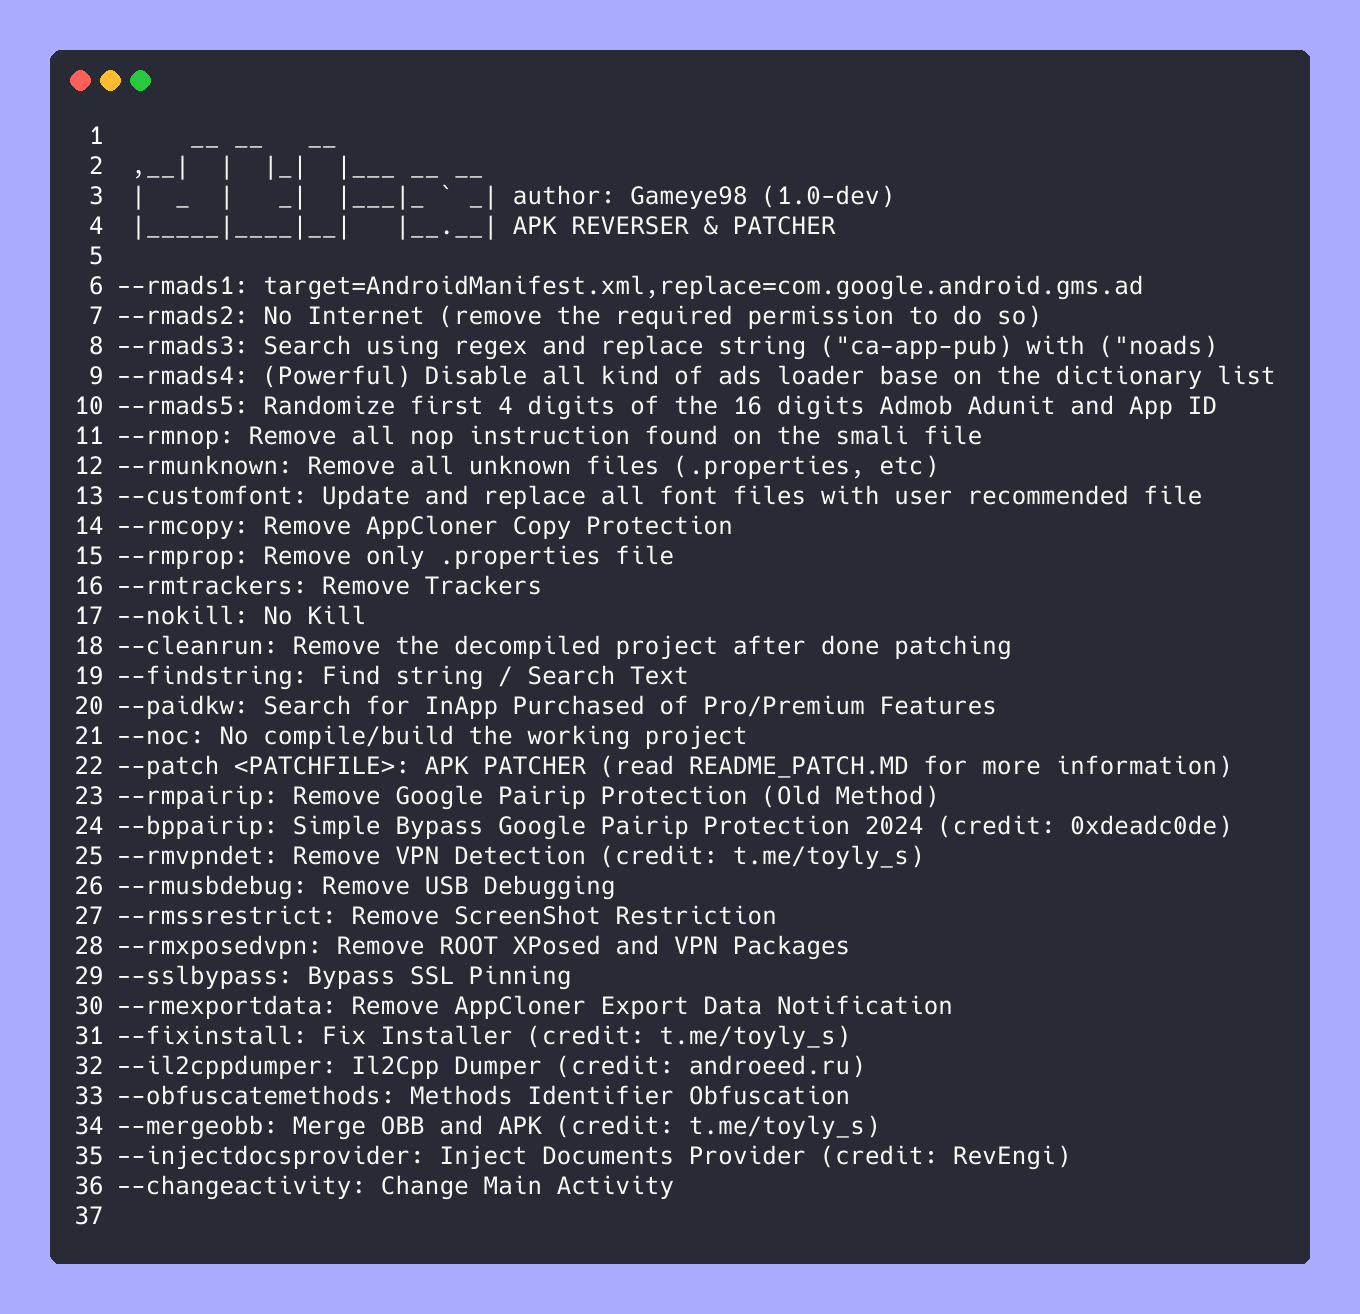
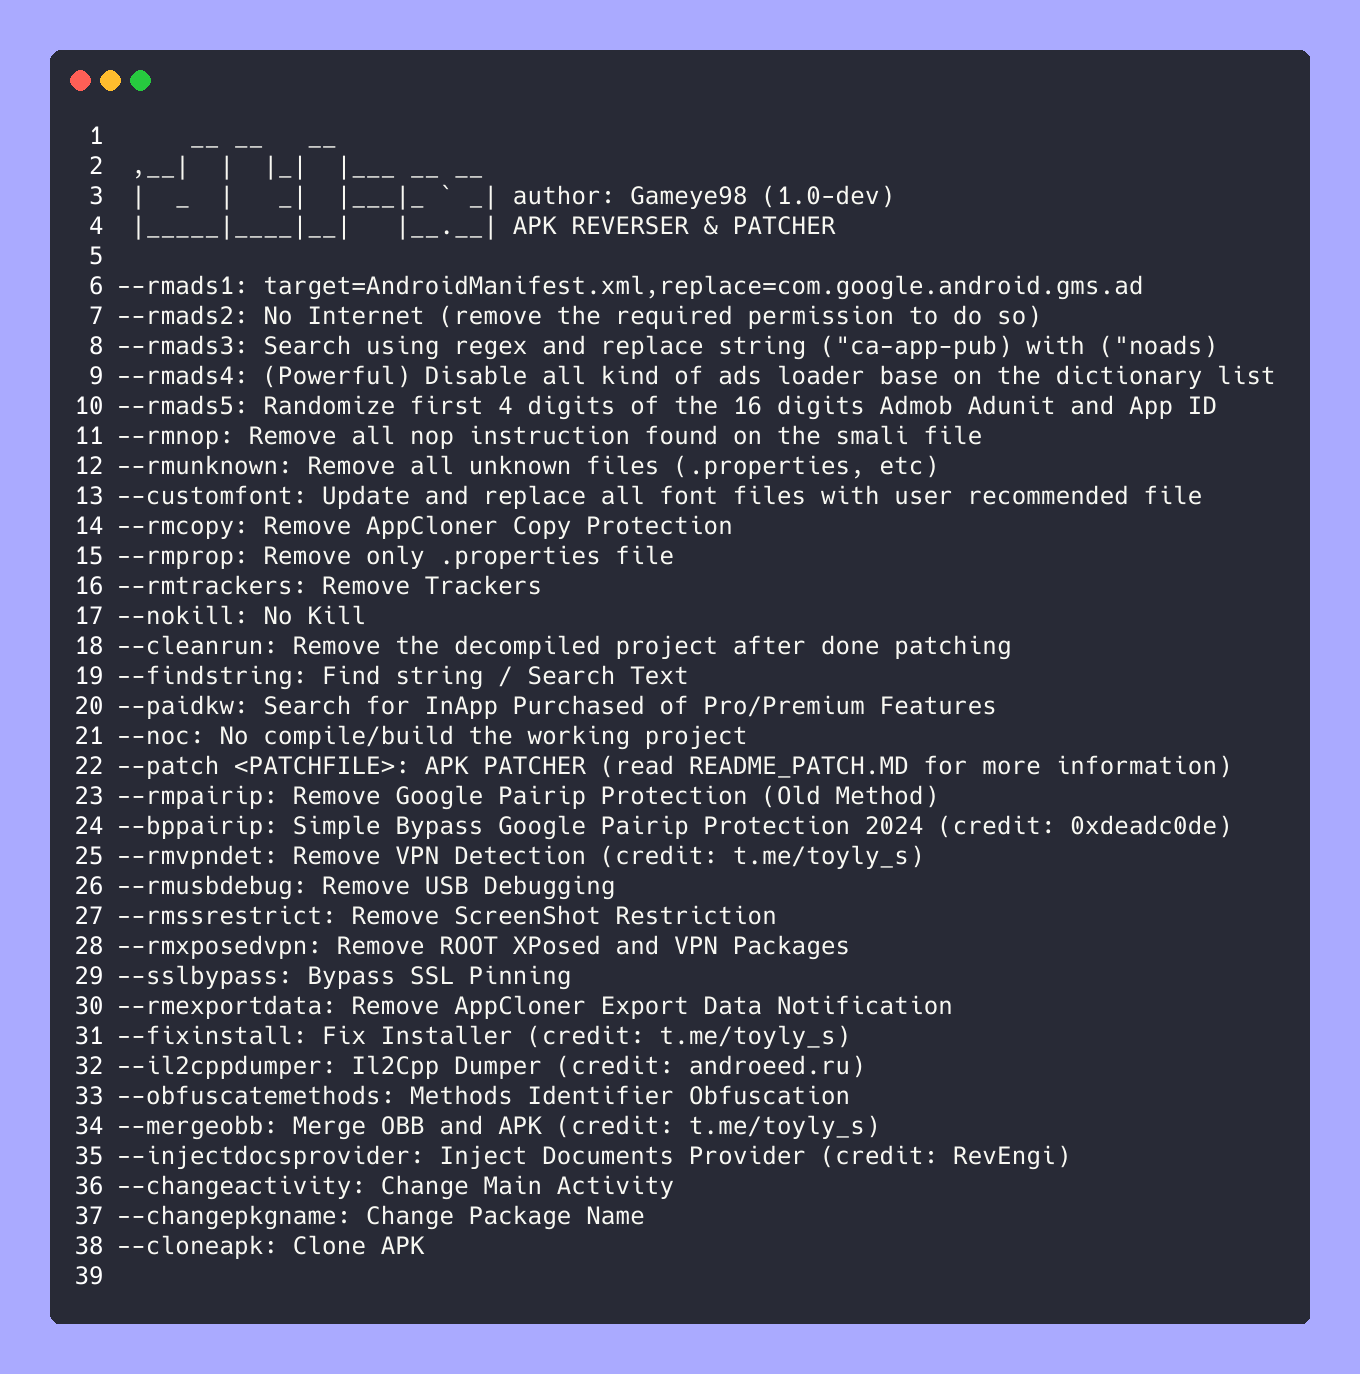
add --changepkgname & --cloneapk

diff --git a/dtlx.py b/dtlx.py
@@ -15,6 +15,8 @@ cnorm = lambda: os.system("tput cnorm")
 cols = lambda: int(os.popen("tput cols").read().strip())
 loading = ["|","/","-","\\"]
 dtlxhistory = ".dtlx_history"
+ascii_letters = "abcdefghijklmnopqrstuvwxyzABCDEFGHIJKLMNOPQRSTUVWXYZ"
+ascii_letters = [x for x in ascii_letters]
 
 def rnd_wordlist():
 	with open("randomlist.txt","r") as f:
@@ -26,6 +28,12 @@ def randomid():
 	randomstr = ""
 	while len(randomstr) < 6:
 		randomstr += str(random.choice(list(range(0,10))))
+	return randomstr
+
+def randomletters():
+	randomstr = ""
+	while len(randomstr) < 6:
+		randomstr += str(random.choice(ascii_letters))
 	return randomstr
 
 def delete_recursively(path):
@@ -172,6 +180,8 @@ class patcher:
 			elif args_iter=="mergeobb":self.mergeObb()
 			elif args_iter=="injectdocsprovider":self.injectDocumentsProvider()
 			elif args_iter=="changeactivity":self.changeActivity()
+			elif args_iter=="changepackagename":self.changePkgName()
+			elif args_iter=="cloneapk":self.cloneApk()
 		# Compile Project
 		if self.iscompile:
 			if os.path.isdir(f"{self.fout}/resources"):
@@ -1704,6 +1714,49 @@ class patcher:
 			self.success("[+] activity changed.")
 		else:
 			self.warning("[!] something went unexpected!")
+	def changePackageName(self,packagename):
+		oldpkgname = self.getPackageName()
+		oldclassname = oldpkgname.replace(".","/")
+		newclassname = packagename.replace(".","/")
+		f_ls = list(glob.iglob(f"{self.fout}/**/*.*",recursive=True))
+		totalpbar = len(f_ls)
+		pbar = progressbar.ProgressBar(totalpbar).start()
+		counter = 0
+		civis()
+		for ffile in f_ls:
+			counter += 1
+			pbar.update(counter)
+			try:
+				with open(ffile,"r") as f:
+					content = f.read().splitlines()
+					for k, v in enumerate(content):
+						if oldpkgname in v:
+							content[k] = v.replace(oldpkgname,packagename)
+						elif oldclassname in v:
+							content[k] = v.replace(oldclassname,newclassname)
+				with open(ffile,"w") as f:
+					f.write("\012".join(content))
+			except UnicodeDecodeError:
+				pass
+		pbar.finish()
+		cnorm()
+	def changePkgName(self):
+		userpkg = input("[*] new package name: ")
+		print("[*] changing package name...")
+		readline.write_history_file(dtlxhistory)
+		self.changePackageName(userpkg)
+	def cloneApk(self):
+		packagename = self.getPackageName()
+		randtext = randomletters()
+		packagename = packagename+"."+randtext
+		# if packagename.count(".") < 2:
+			# packagename = packagename+"."+randtext
+		# else:
+			# while not packagename.endswith("."):
+				# packagename = packagename[0:len(packagename)-1]
+			# packagename = packagename+"."+randtext
+		print("[*] cloning apk...")
+		self.changePackageName(packagename)
 
 helpbanner = """     __ __   __              
  ,__|  |  |_|  |___ __ __
@@ -1741,6 +1794,8 @@ helpbanner = """     __ __   __
 --mergeobb: Merge OBB and APK (credit: t.me/toyly_s)
 --injectdocsprovider: Inject Documents Provider (credit: RevEngi)
 --changeactivity: Change Main Activity
+--changepkgname: Change Package Name
+--cloneapk: Clone APK
 """
 
 mainbanner = """                                                  
@@ -2212,6 +2267,10 @@ def main():
 				funcls.append("injectdocsprovider")
 			elif px == "--changeactivity":
 				funcls.append("changeactivity")
+			elif px == "--changepkgname":
+				funcls.append("changepackagename")
+			elif px == "--cloneapk":
+				funcls.append("cloneapk")
 		if ispatch:
 			if not os.path.isfile(patchfile):
 				print(f"\x1b[1;41;93m[!] dtlx: '{patchfile}': No such file exists\x1b[0m")

diff --git a/README.md b/README.md
@@ -64,6 +64,8 @@ If you are interested in reversing or patching Android applications, then I reco
 --mergeobb: Merge OBB and APK (credit: t.me/toyly_s)  
 --injectdocsprovider: Inject Documents Provider (credit: RevEngi)  
 --changeactivity: Change Main Activity  
+--changepkgname: Change Package Name  
+--cloneapk: Clone APK  
 ```
 
 **• note 1: remove any whitespace found on the apk file name before patching**  
